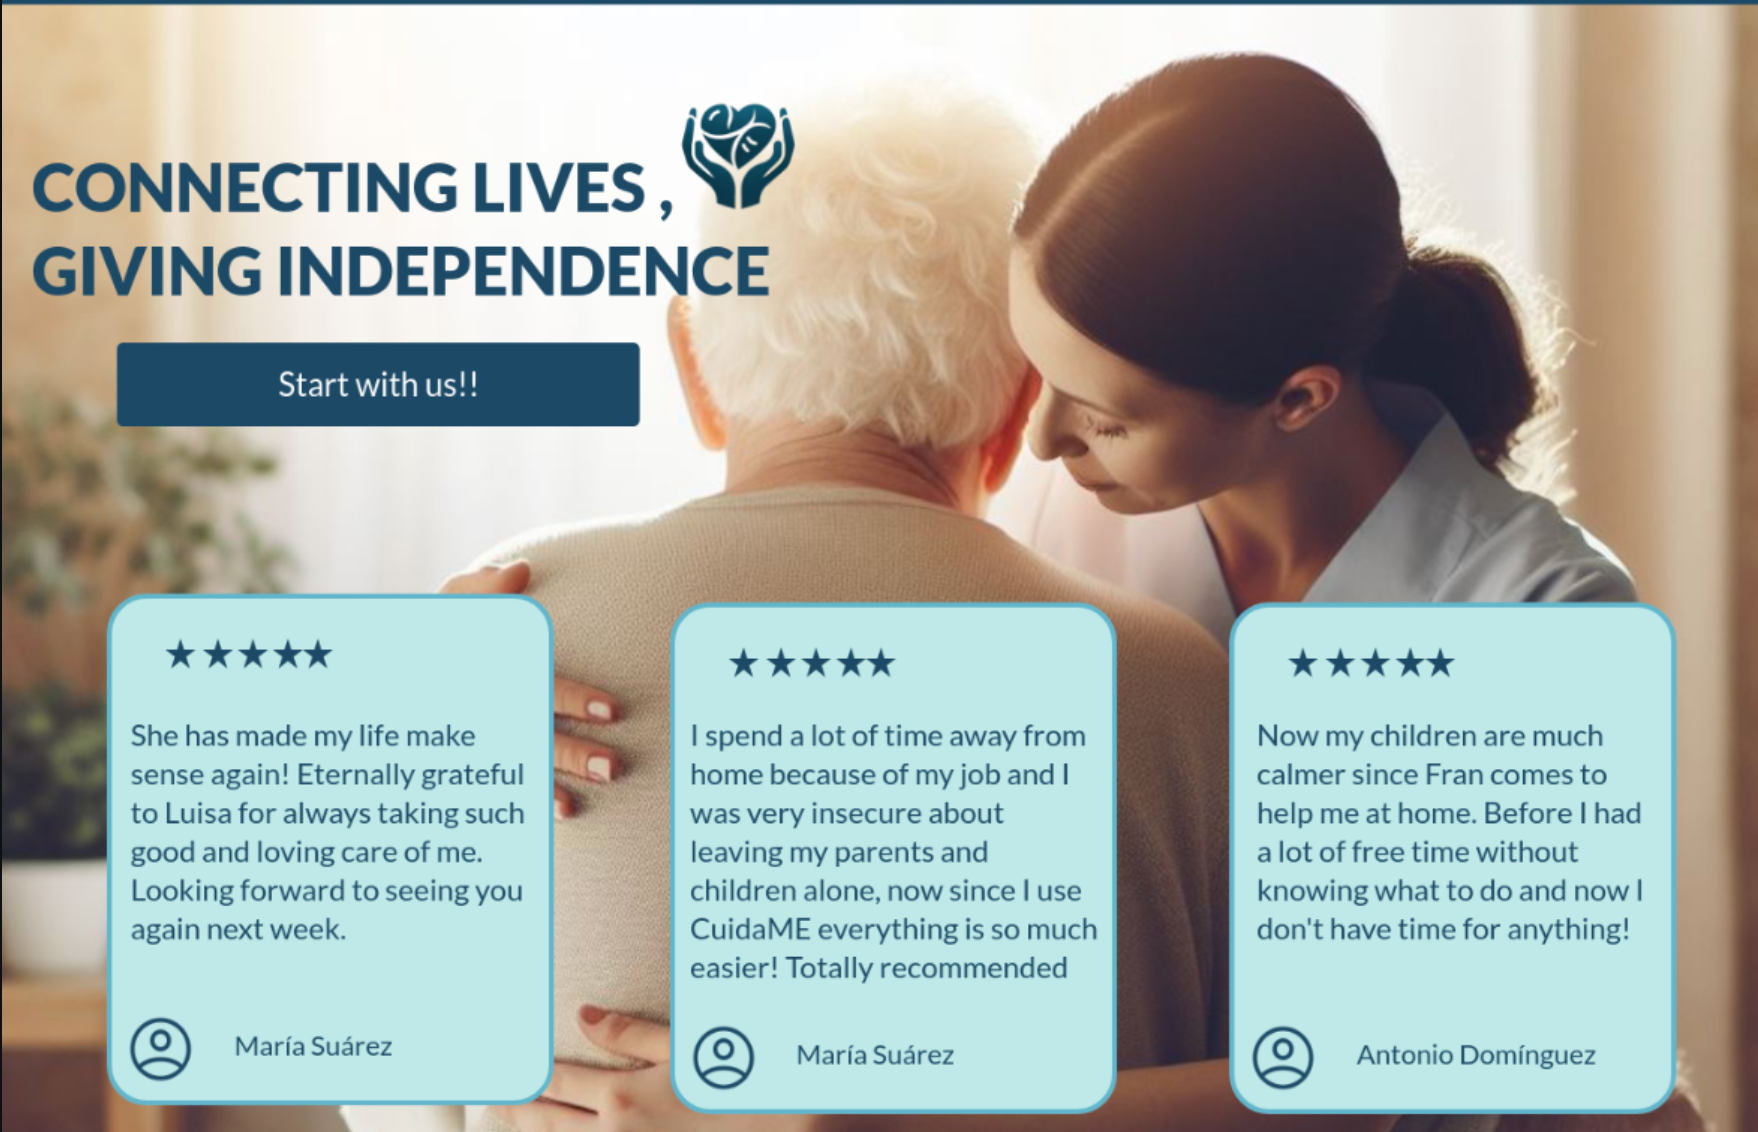
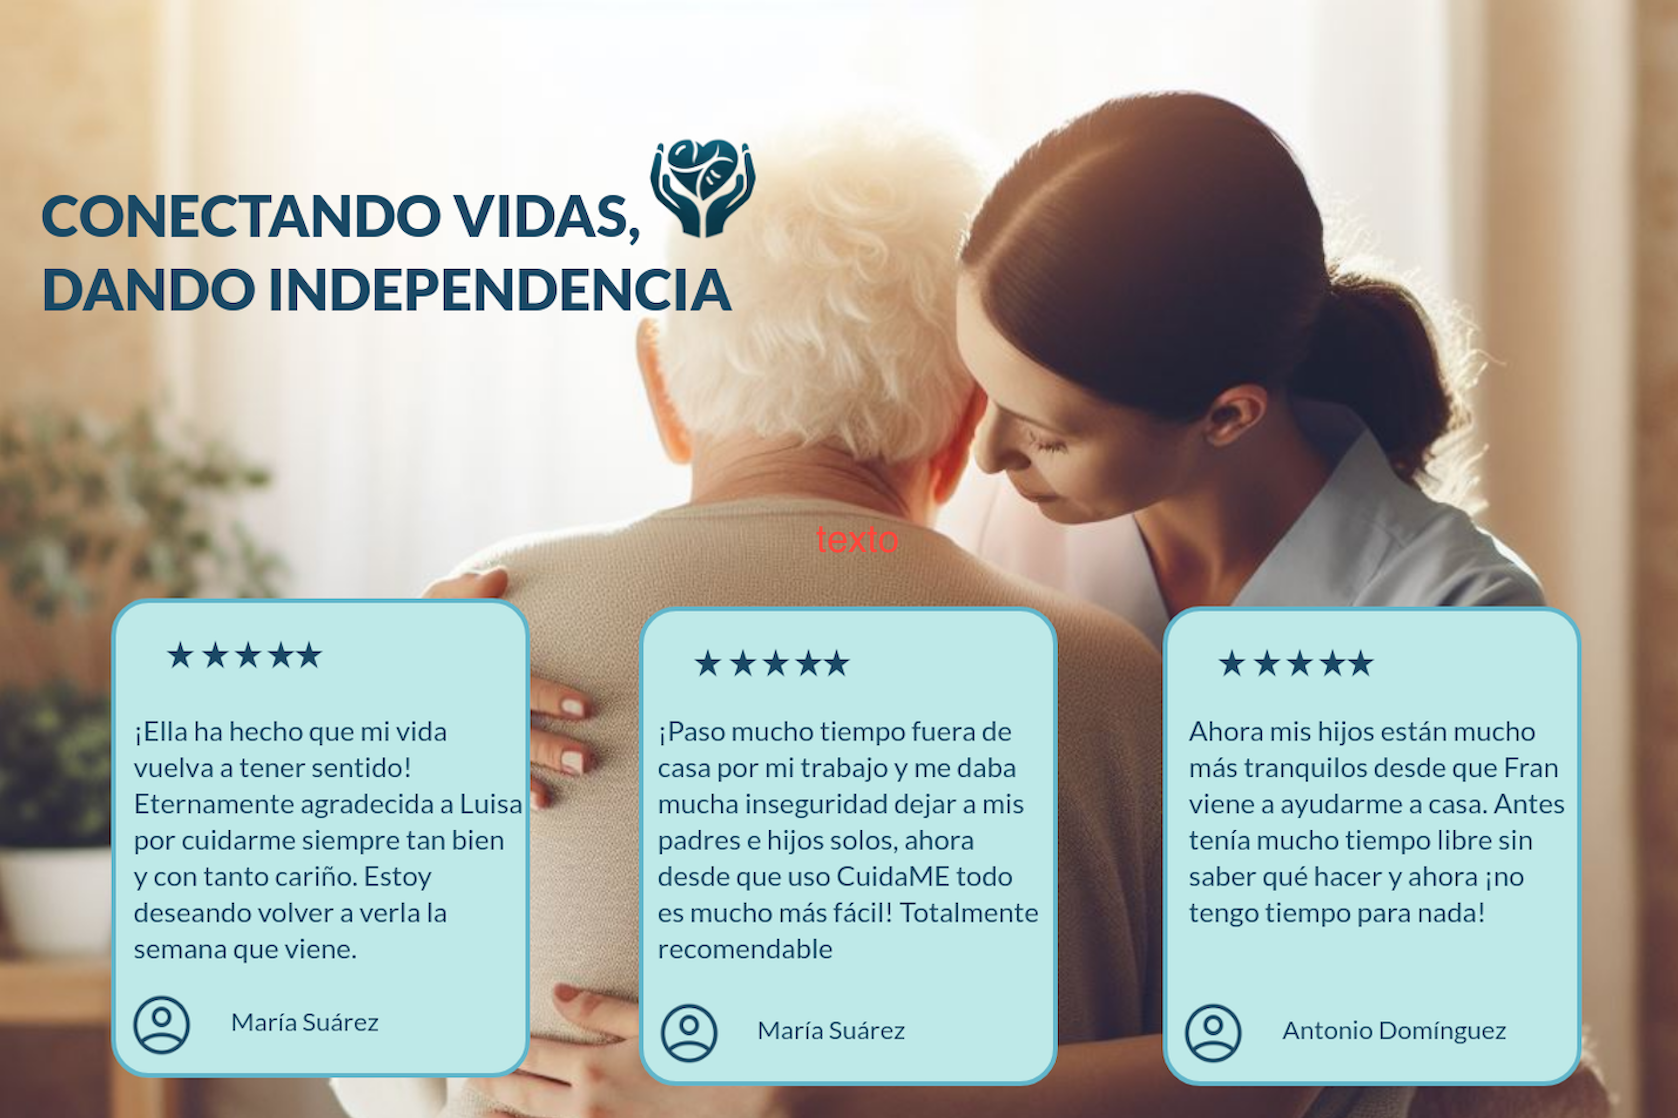
fix:traducir portada principal y arreglar los estilos

Changed region(s): [[0.0, 0.0, 1.0, 1.0], [0.4029, 0.5778, 0.5268, 0.6082], [0.0, 0.6082, 0.031, 0.6386]]

diff --git a/main/templates/main/startPage.html b/main/templates/main/startPage.html
@@ -2,12 +2,12 @@
 
 {% block content %}
 {% load static %}
-<body class="home-page"> <!-- Agrega la clase 'home-page' al cuerpo -->
+<body class="home-page"> 
     <style>
         .custom-button {
             position: absolute; 
             top: 34%; 
-            left: 21.5%; 
+            left: 22.5%; 
             transform: translate(-50%, -50%); 
             padding: 30px 170px; 
             background-color: #1B4965; 
@@ -22,7 +22,7 @@
         }
 
         .custom-button-text {
-            font-size: 24px; 
+            font-size: 20px; 
             line-height: 1; 
         }
 
@@ -39,9 +39,9 @@
     </style>
 
     <div class="button-container">
-        <img src="{% static 'Images/portadaPrincipal.png' %}" alt="Portada Principal">
+        <img src="{% static 'Images/portadaPrincipal.png' %}" alt="Portada Principal" style="max-width: 100%; height: auto;">
         <a href="{% url 'home' %}" class="custom-button">
-            <span class="custom-button-text">Start with us!!</span>
+            <span class="custom-button-text">Empieza Con Nosotros!!</span>
         </a>
     </div>
 </body>

diff --git a/main/templates/main/base.html b/main/templates/main/base.html
@@ -1,7 +1,7 @@
 {% load static %}
 <!DOCTYPE html>
-<html lang="es">
-<head>
+<html lang="es" {% if is_home_page %}class="home-page"{% endif %}>
+<head >
   <meta charset="UTF-8">
   <meta name="viewport" content="width=device-width, initial-scale=1.0">
   <title>{% block title %}{% endblock title %} - CuidaMe</title>
@@ -14,8 +14,8 @@
   {% block header %}{% endblock header %}
 </head>
 <body>
-  <header style="margin-top: 0;">
-    <section class="base-header-primary" style="padding-top: 10px;">
+  <header style="margin-top: 0;margin-down:0">
+    <section class="base-header-primary" style="padding-top: 10px;" >
         <h3 style="padding-left: 10px;"><a href="/" style="color: #cae9ff; text-decoration: none;"><strong>CuidaMe</strong></a></h3>
         <nav>
             {% if request.user.is_authenticated %}

diff --git a/main/static/css/base.css b/main/static/css/base.css
@@ -39,6 +39,7 @@
     display: flex;
     justify-content: space-between;
     height: 60px;
+    
 
     background-color: #1B4965; 
     
